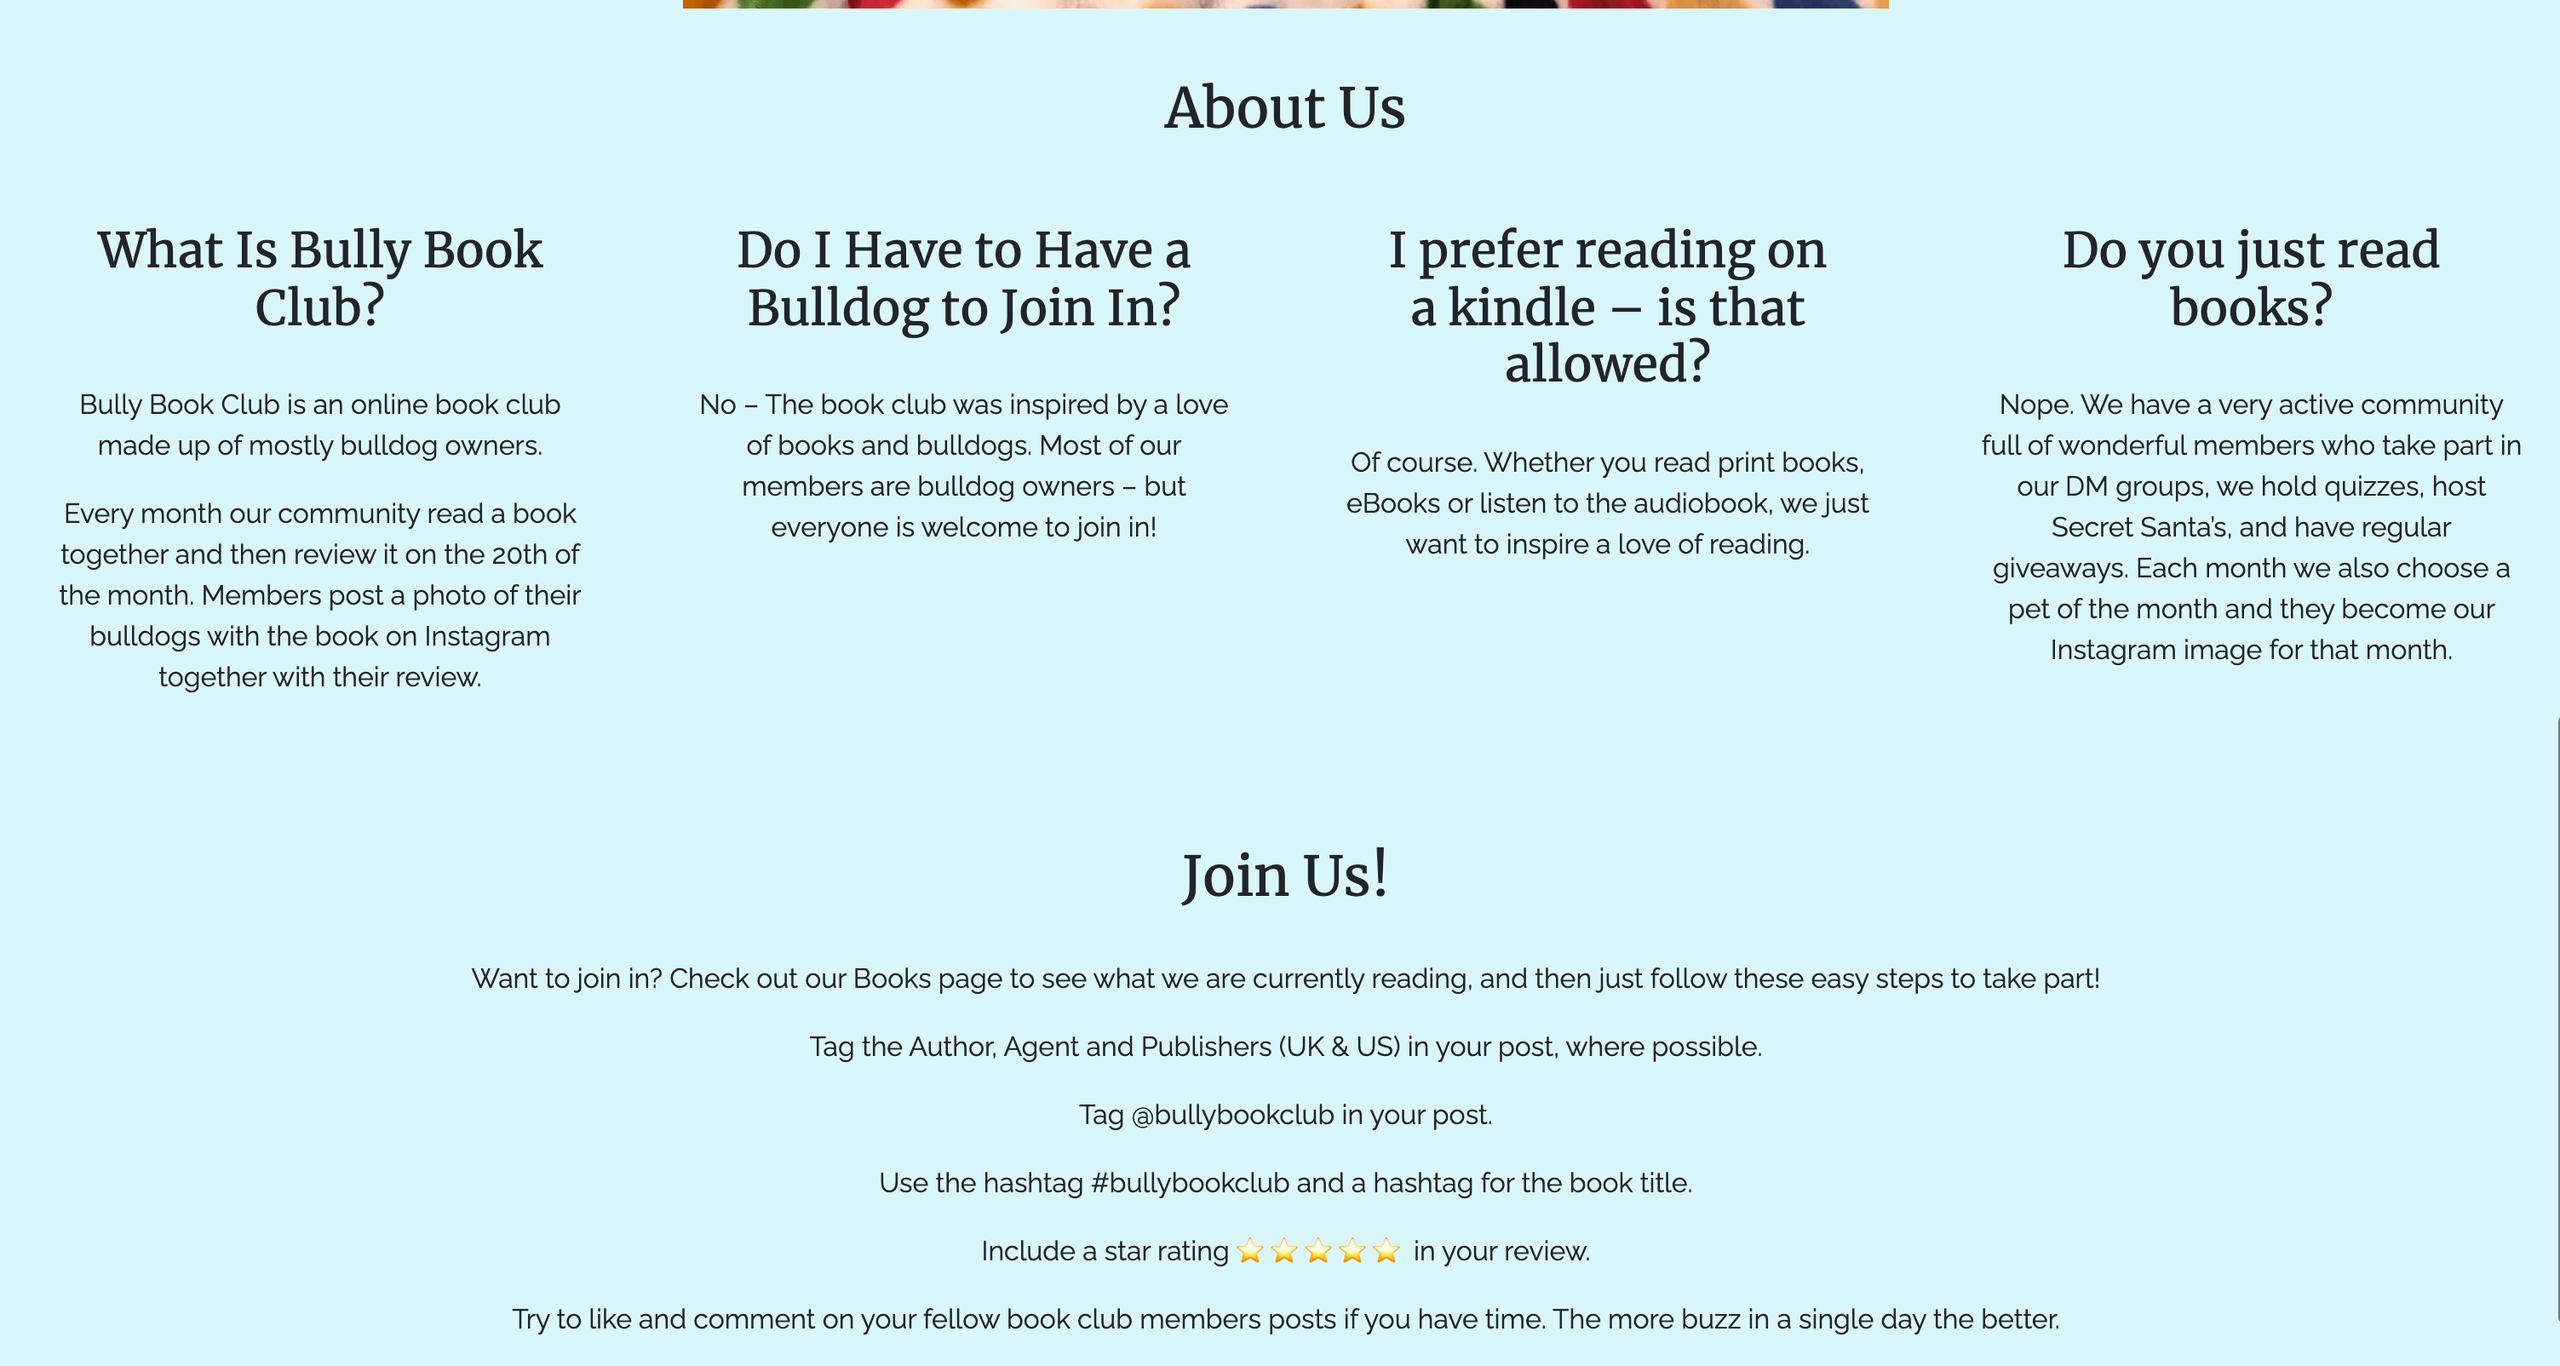
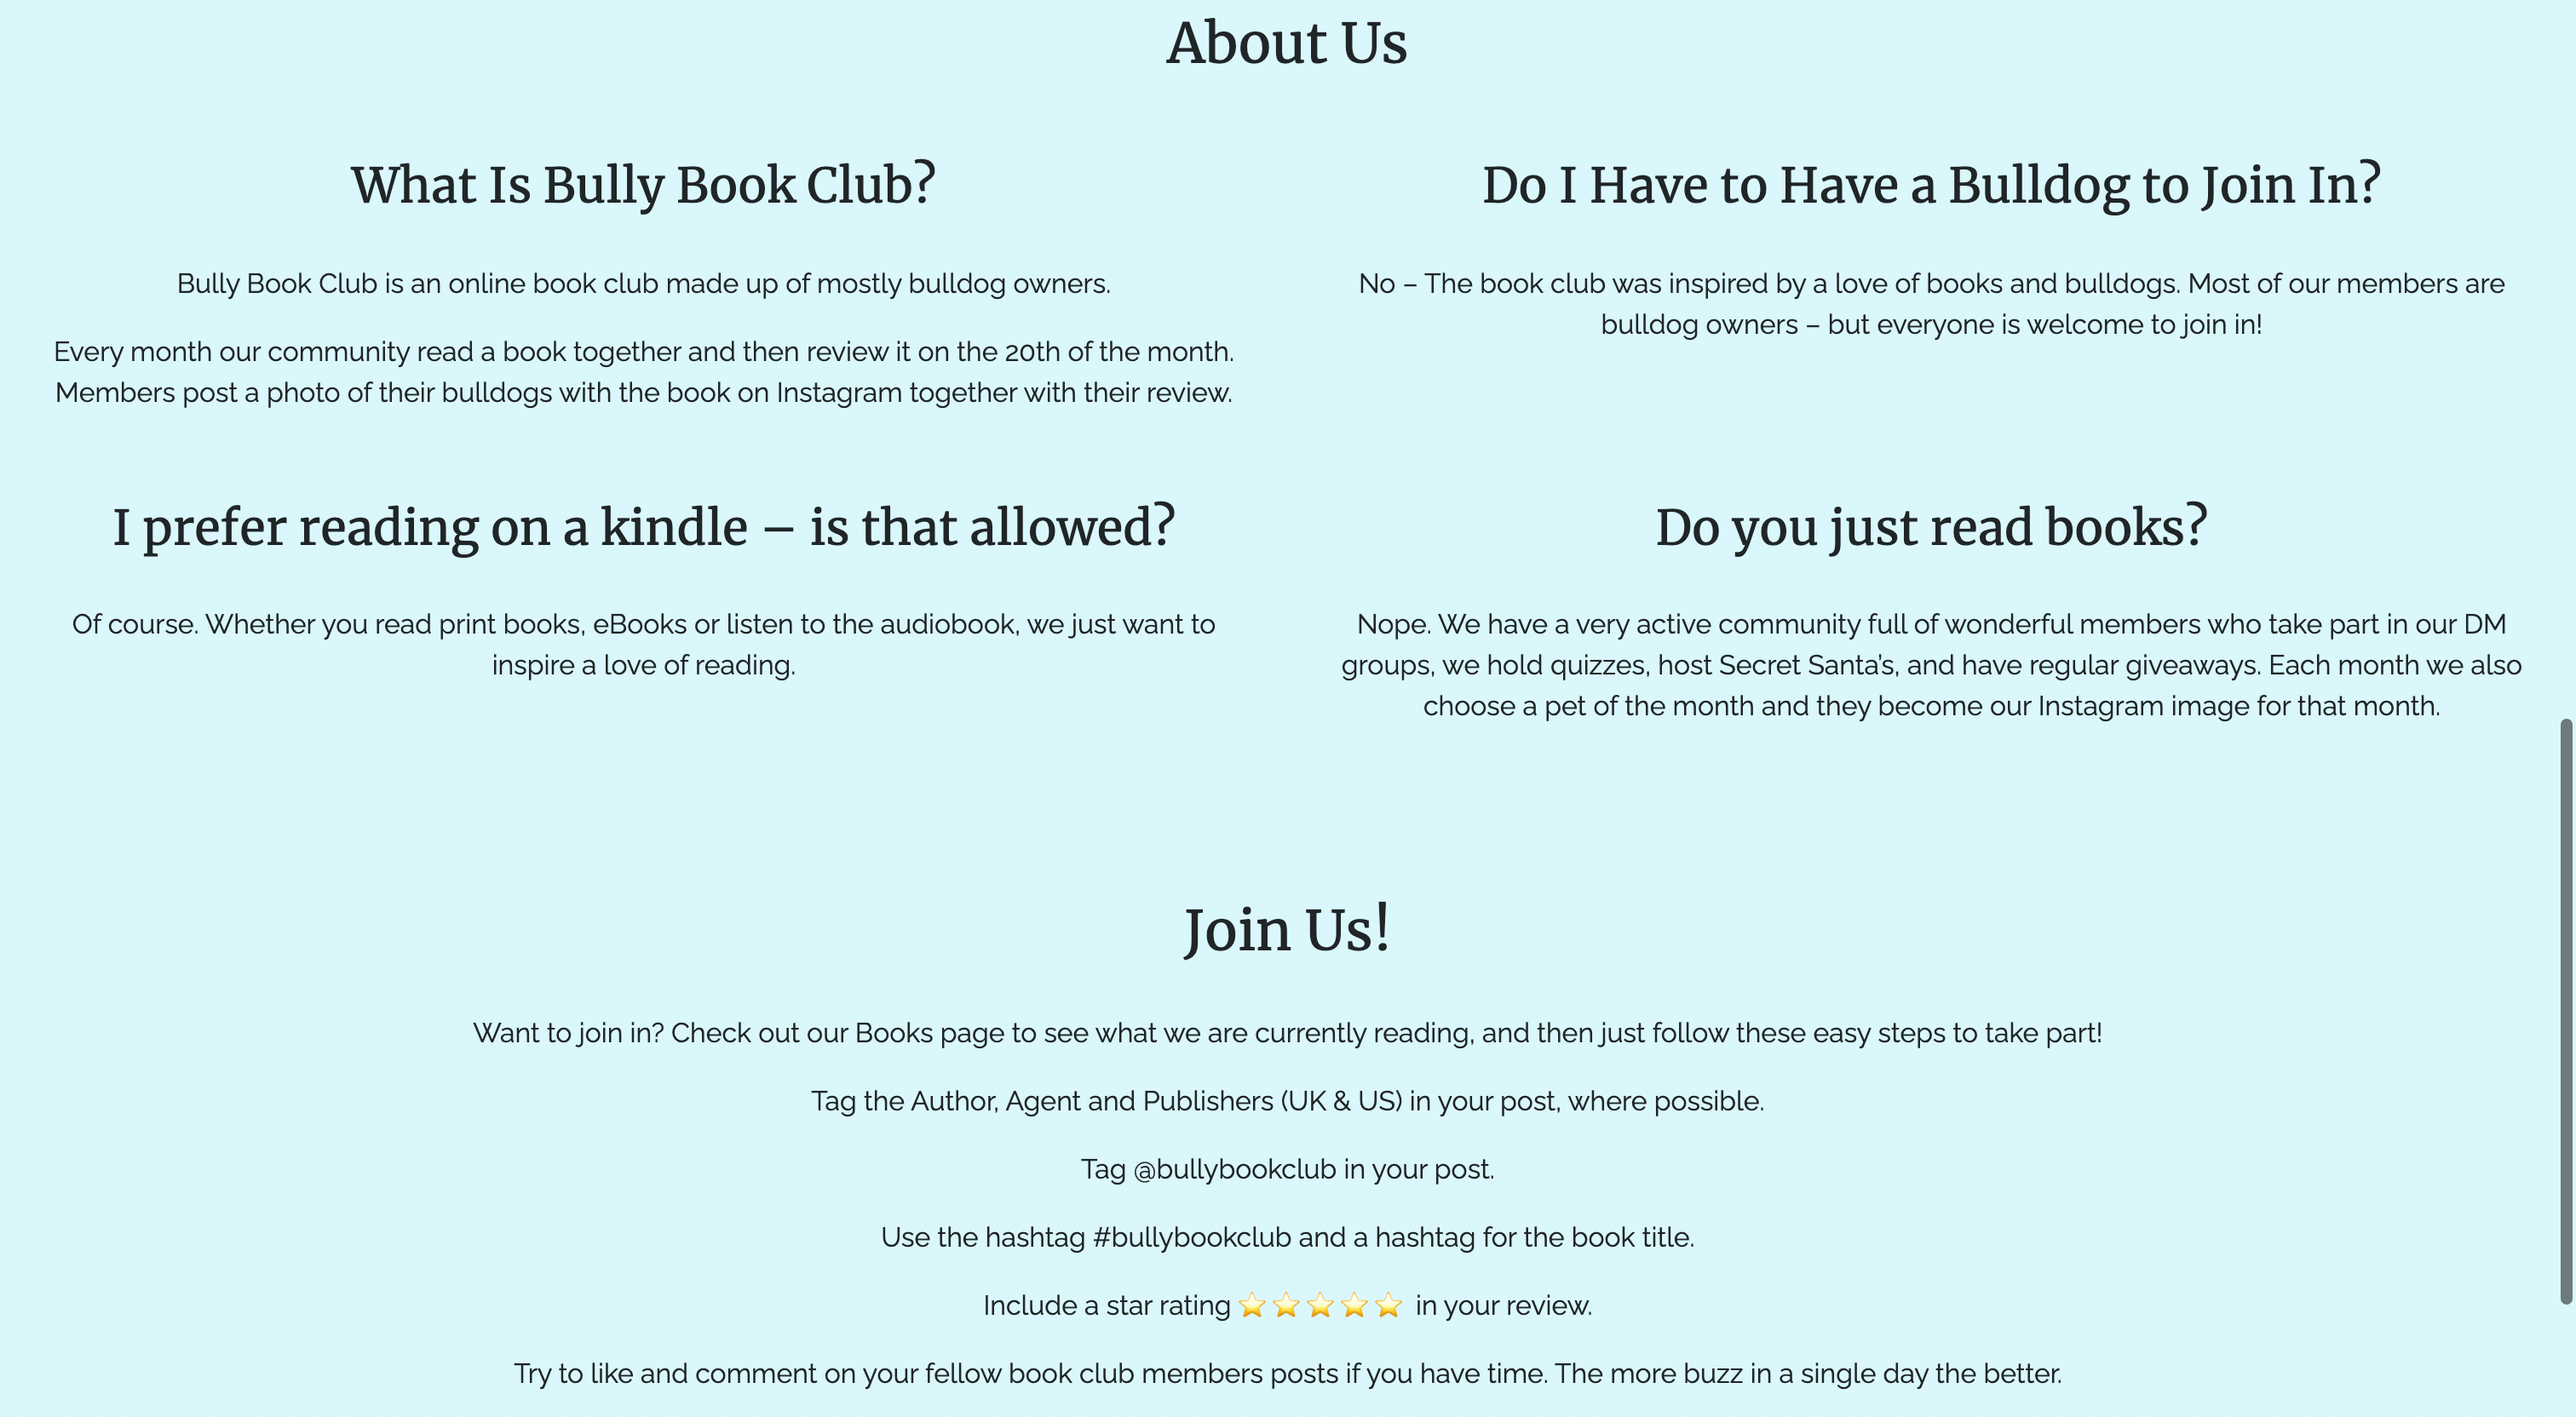
updated image for user stories 1 showing new layout of about us section

diff --git a/README.md b/README.md
@@ -249,6 +249,10 @@ The following issues were raised during my mid project meeting with my mentor:
 * The introduction paragraph on the books page was not aligned in style with the rest of the page. ~ The text has now been centered.
 * The form could be submitted with only a name filled in. ~ A required attribute has been added to the email input and textarea.
 
+The Following items were brought up when I submitted my site to peer code review on slack.
+
+* Andrew Dempsey suggested to change the layout of the about us section on the index page to make it two rows instead of one, as this would improve the flow of the page on larger screens. ~ I have moved the second two items into a second row and have added a margin bottom in the css to give the items a bit more breathing space.
+
 ### W3C Validator
 
 The W3C validator was used to validate the HTML on all pages of the website. It was also used to validate CSS in the style.css file.
